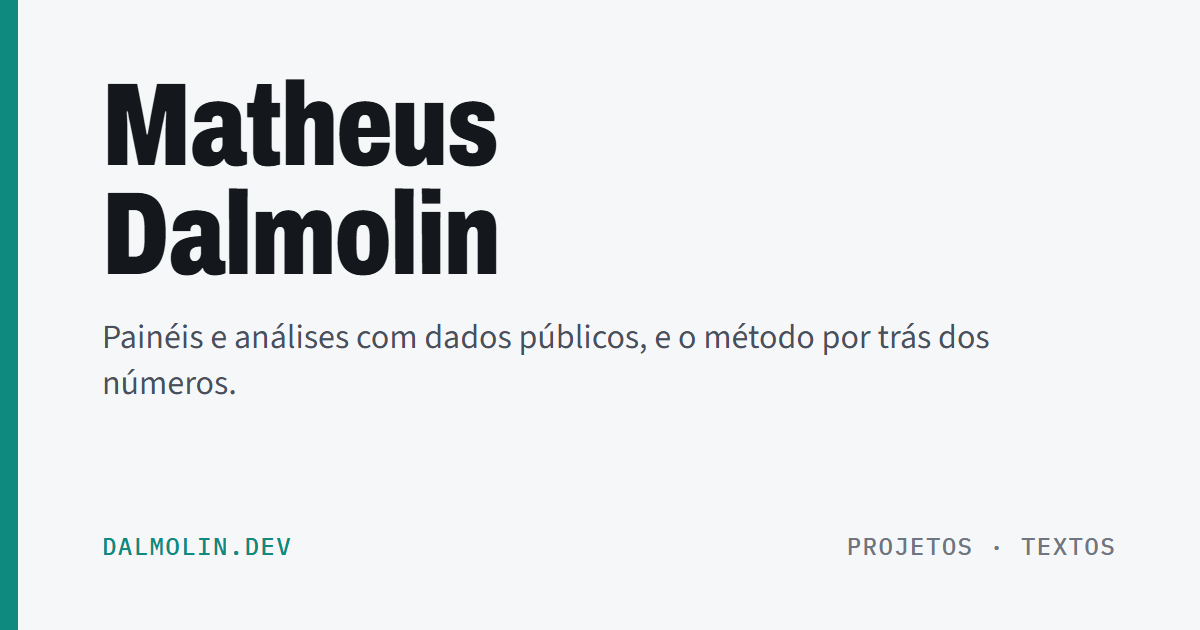
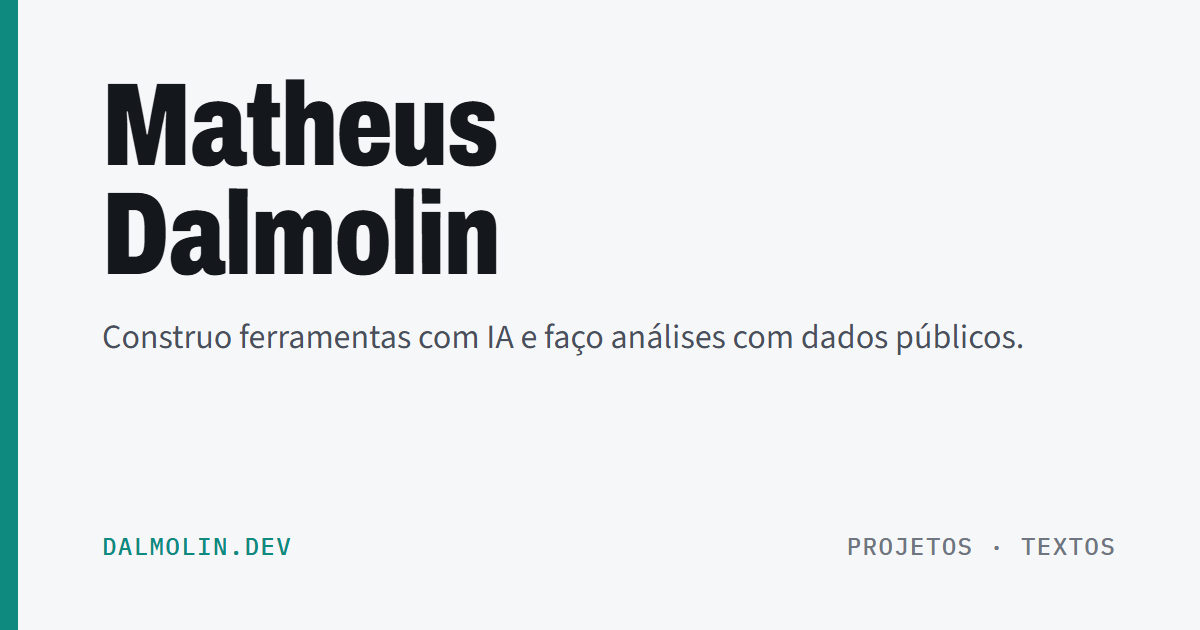
Bio do X, LinkedIn e site só em português
A bio da coluna e do Sobre passa a ser a do X ("Construo ferramentas com
IA e faço análises com dados públicos..."), por escolha do usuário. Entra
o link do LinkedIn. Sai a página em inglês (/en/) por enquanto. O Sobre
fica curto: bio, o exemplo da apuração e contato.

Changed region(s): [[0.0617, 0.5127, 0.8633, 0.6333]]

diff --git a/src/site.ts b/src/site.ts
@@ -4,13 +4,12 @@ import { getCollection } from "astro:content";
 export const SITE = {
   nome: "Matheus Dalmolin",
   url: "https://dalmolin.dev",
-  // RASCUNHO: revisar com o usuário.
-  bio: "Faço painéis e análises com dados públicos (eleições, cidades, futebol) e escrevo sobre o método por trás dos números. Trabalho com inteligência artificial aplicada.",
-  bioEn: "I build dashboards and analyses with public data (elections, cities, football) and write about the method behind the numbers. I work in applied artificial intelligence.",
+  // Bio do X do usuário (06/11/2026), escolhida por ele para o site.
+  bio: "Construo ferramentas com IA e faço análises com dados públicos. Agentes, mapas, simulações e o que mais der vontade de entender.",
   contatos: [
     { nome: "contato@dalmolin.dev", url: "mailto:contato@dalmolin.dev" },
     { nome: "X", url: "https://x.com/MatheusDalmolin" },
-    { nome: "LinkedIn", url: "" }, // FALTA: endereço do perfil
+    { nome: "LinkedIn", url: "https://www.linkedin.com/in/matheus-dalmolin/" },
     { nome: "Threads", url: "https://www.threads.com/@dalmolinmatheuss" },
     { nome: "GitHub", url: "https://github.com/MatheusGSD" },
   ],

diff --git a/src/styles/global.css b/src/styles/global.css
@@ -40,8 +40,6 @@ p { margin: 0; }
 .contatos { display: flex; flex-direction: column; gap: .3rem; margin-top: auto; font-size: .9rem; }
 .contatos a { color: var(--ink-2); text-decoration: none; border-bottom: 1px solid var(--rule); width: fit-content; }
 .contatos a:hover { color: var(--ink); border-color: var(--ink); }
-.lado .lang { font: 500 .78rem/1.6 var(--f-mono); color: var(--ink-3); text-decoration: none; }
-.lado .lang:hover { color: var(--accent); }
 
 /* ---------- fluxo ---------- */
 .filtros { display: flex; flex-wrap: wrap; gap: .5rem; align-items: center; margin-bottom: 1.8rem; }

diff --git a/ferramentas/og.py b/ferramentas/og.py
@@ -22,7 +22,7 @@ p {{ margin: 0; font: 400 34px/1.35 S; color: #4a505b; max-width: 960px; }}
 .pe b {{ color: #0f8a7e; font-weight: 500; }}
 </style></head><body><div class="c">
 <h1>Matheus<br>Dalmolin</h1>
-<p>Painéis e análises com dados públicos, e o método por trás dos números.</p>
+<p>Construo ferramentas com IA e faço análises com dados públicos.</p>
 <span></span>
 <div class="pe"><b>dalmolin.dev</b><span>projetos · textos</span></div>
 </div></body></html>"""

diff --git a/ferramentas/confere.py b/ferramentas/confere.py
@@ -11,7 +11,7 @@ from playwright.sync_api import sync_playwright
 RAIZ = Path(__file__).resolve().parent.parent
 DIST = RAIZ / "dist"
 SAIDA = RAIZ / "ferramentas" / "_capturas"
-PAGINAS = ["/", "/projetos/", "/textos/", "/sobre/", "/en/", "/textos/swing-simples-segundo-turno/", "/nao-existe/"]
+PAGINAS = ["/", "/projetos/", "/textos/", "/sobre/", "/textos/swing-simples-segundo-turno/", "/nao-existe/"]
 PORTA = 4329
 
 

diff --git a/CLAUDE.md b/CLAUDE.md
@@ -1,7 +1,7 @@
 # dalmolin.dev — notas para o agente
 
-Site pessoal de Matheus Dalmolin (projetos, textos, sobre; currículo e "fora do trabalho" virão depois). O usuário escreve em
-português; responda em português. Plano e decisões (06/11/2026) na memória `site-pessoal-dalmolin-dev`.
+Site pessoal de Matheus Dalmolin (projetos, textos, sobre; currículo e hobbies virão depois). Só em português por enquanto
+(decisão de 06/11: sem página em inglês). O usuário escreve em português; responda em português. Plano e decisões (06/11/2026) na memória `site-pessoal-dalmolin-dev`.
 
 ## Como funciona
 - Astro 7, estático. `npm run build` → `dist/`; publicação pelo GitHub Actions (`.github/workflows/deploy.yml`) no repo
@@ -18,9 +18,9 @@ português; responda em português. Plano e decisões (06/11/2026) na memória `
   usuário com domínio). Estar no ar não é estar na lista: a lista é `src/content/projetos/`.
 
 ## Conferência
-`npm run build && python ferramentas/confere.py`: 7 páginas × (1280/390 px, claro/escuro), erros de console, rolagem lateral
+`npm run build && python ferramentas/confere.py`: 6 páginas × (1280/390 px, claro/escuro), erros de console, rolagem lateral
 e links internos quebrados; capturas em `ferramentas/_capturas/`. `python ferramentas/og.py` refaz `public/og.png`.
-Textos marcados como RASCUNHO em `src/site.ts` e nas páginas `sobre`/`en` só mostram o aviso no modo `astro dev`.
+A bio (`src/site.ts`) é a do X do usuário, escolhida por ele. Não usar o Lattes (desatualizado, segundo ele).
 
 ## Fora do main
 `_prototipo_inicio/` (protótipos A/B/C da página inicial) e `_referencias/` (quadros de referências que o usuário rejeitou)
